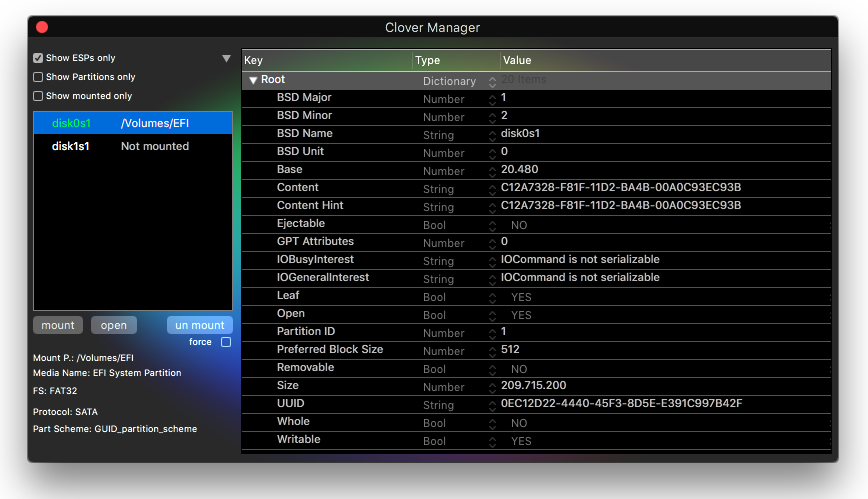
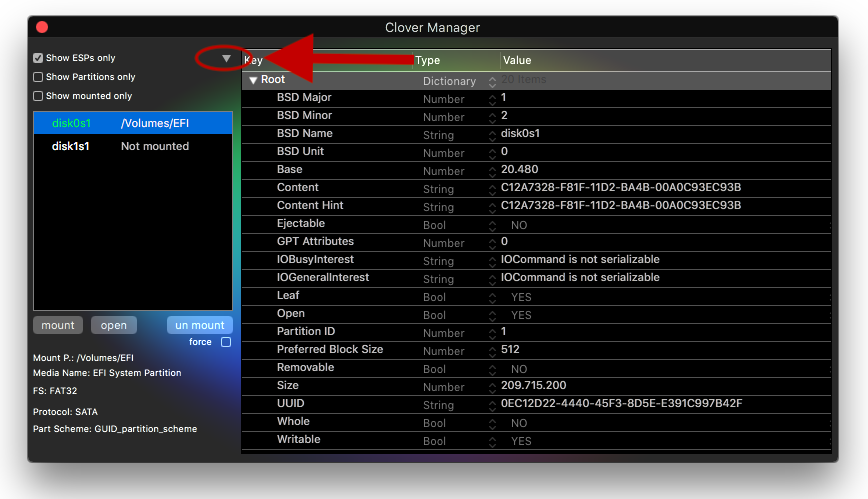
README.md updated
README.md updated with info about Clover Manager and its disk
information

Changed region(s): [[0.2177, 0.0601, 0.4977, 0.1804]]

diff --git a/README.md b/README.md
@@ -2,7 +2,7 @@
 ![alt text](http://www.appmaniaci.com/wp-content/uploads/2011/11/santa-icona.png)
 
 
-# Clover Configurator Pro [Download here](https://github.com/Micky1979/Clover-Configurator-Pro/releases/tag/v1.1-Beta3)
+# Clover Configurator Pro [Download here](https://github.com/Micky1979/Clover-Configurator-Pro/releases/tag/v1.2-Beta4)
 
 A full configurator for [Clover V2](https://sourceforge.net/p/cloverefiboot/code/HEAD/tree) bootloader.
 Made with latest Swift 4 (waiting Swift 5  in 2018), has its own parser (each entry will remains sorted as you leave it before closing the file).
@@ -54,7 +54,7 @@ Clover Configurator Pro can automatically load the config.plist used to boot the
 What if you want to load another one? Simple, open the "Clover Manager" under the "View" menu:
 ![alt text](https://raw.githubusercontent.com/Micky1979/Clover-Configurator-Pro/master/pict/selectConfig.png)
 
-right click on the desired disk (boot partition is green colored) and choose one. The partition must be mounted.
+right click on the desired disk and choose one (boot partition is green colored on dark appearance, red otherwise). The partition must be mounted.
 Or if the file is elsewhere just drag it to the applications icon, or right clik on the file you want to open.
 
 How to edit something for Clover? Well, that is the easy part, just right click with the mouse over any entry of the config.plist:
@@ -82,6 +82,11 @@ Open the "Clover Manager" under the "View" menu:
 Clover Configurator Pro keeps Build_Clover.command always up to date and you can use it to download and build
 always the latest Clover revision available. To do that take a look at the "Build_Clover" menu.
 Mind that Xcode must be installed and its clt selected.
+
+## Wants some info about your disks or partitions?
+**The Clover Manager is expandable:**
+![alt text](https://raw.githubusercontent.com/Micky1979/Clover-Configurator-Pro/master/pict/CloverManagerExpanded.pngg)
+**all the info you wants are there. You can also apply filters for slices (partitions), mounted or ESPs if you have more than one.**
 
 ## Additions
 Under the view menu you will find confortable having a text to data encoder/decoder, a hex to base64 encoder/decoder
